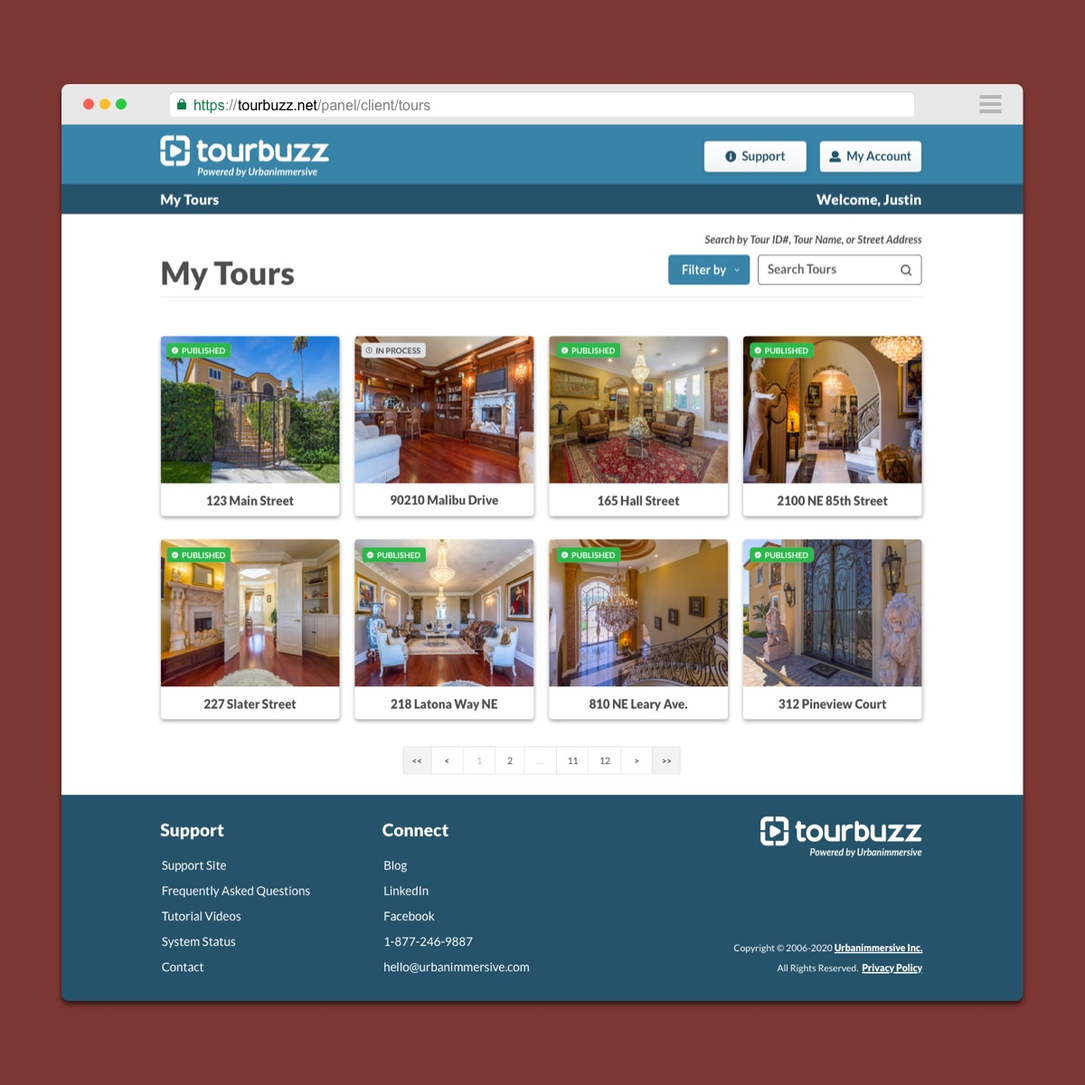
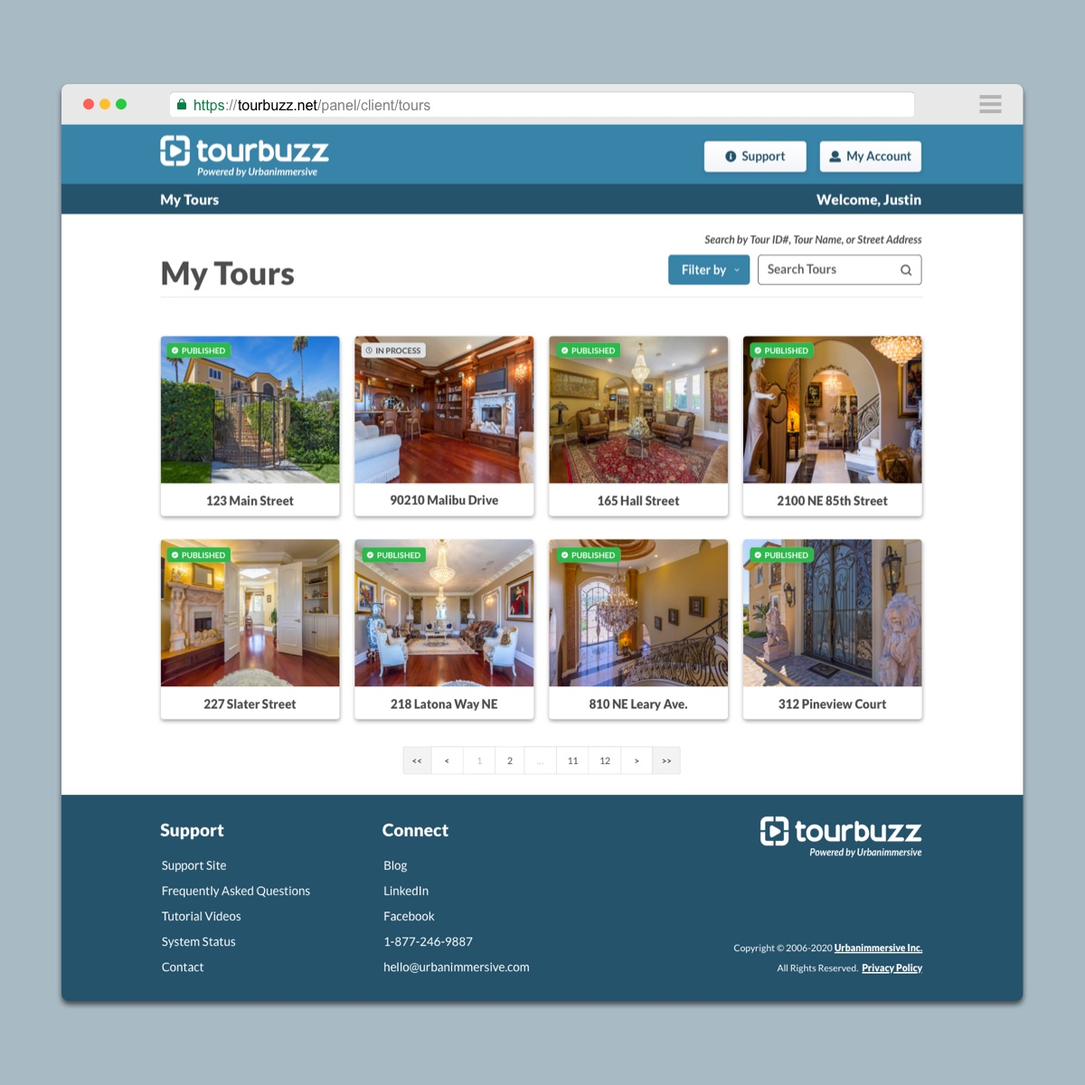
Update client panel img, description, work item.

Changed region(s): [[0.0, 0.0, 1.0, 1.0]]

diff --git a/css/style.css b/css/style.css
@@ -1,3 +1,3 @@
-/*! normalize.css v3.0.1 | MIT License | git.io/normalize */html{font-family:sans-serif;-ms-text-size-adjust:100%;-webkit-text-size-adjust:100%}body{margin:0}article,aside,details,figcaption,figure,footer,header,hgroup,main,nav,section,summary{display:block}audio,canvas,progress,video{display:inline-block;vertical-align:baseline}audio:not([controls]){display:none;height:0}[hidden],template{display:none}a{background:transparent}a:active,a:hover{outline:0}abbr[title]{border-bottom:1px dotted}b,strong{font-weight:bold}dfn{font-style:italic}h1{font-size:2em;margin:0.67em 0}mark{background:#ff0;color:#000}small{font-size:80%}sub,sup{font-size:75%;line-height:0;position:relative;vertical-align:baseline}sup{top:-0.5em}sub{bottom:-0.25em}img{border:0}svg:not(:root){overflow:hidden}figure{margin:1em 40px}hr{box-sizing:content-box;height:0}pre{overflow:auto}code,kbd,pre,samp{font-family:monospace, monospace;font-size:1em}button,input,optgroup,select,textarea{color:inherit;font:inherit;margin:0}button{overflow:visible}button,select{text-transform:none}button,html input[type="button"],input[type="reset"],input[type="submit"]{-webkit-appearance:button;cursor:pointer}button[disabled],html input[disabled]{cursor:default}button::-moz-focus-inner,input::-moz-focus-inner{border:0;padding:0}input{line-height:normal}input[type="checkbox"],input[type="radio"]{box-sizing:border-box;padding:0}input[type="number"]::-webkit-inner-spin-button,input[type="number"]::-webkit-outer-spin-button{height:auto}input[type="search"]{-webkit-appearance:textfield;box-sizing:content-box}input[type="search"]::-webkit-search-cancel-button,input[type="search"]::-webkit-search-decoration{-webkit-appearance:none}fieldset{border:1px solid #c0c0c0;margin:0 2px;padding:0.35em 0.625em 0.75em}legend{border:0;padding:0}textarea{overflow:auto}optgroup{font-weight:bold}table{border-collapse:collapse;border-spacing:0}td,th{padding:0}body,div,h1,h2,h3,h4,h5,h6,p,blockquote,pre,dl,dt,dd,ol,ul,li,fieldset,form,label,legend,th,td,article,aside,figure,footer,header,hgroup,menu,nav,section{margin:0;padding:0;border:0}@font-face{font-family:'cooper-hewitt';src:url("../fonts/cooper-hewitt/cooperhewitt-book-webfont.woff2") format("woff2"),url("../fonts/cooper-hewitt/cooperhewitt-book-webfont.woff") format("woff");font-weight:normal;font-style:normal}@font-face{font-family:'cooper-hewitt';src:url("../fonts/cooper-hewitt/cooperhewitt-bookitalic-webfont.woff2") format("woff2"),url("../fonts/cooper-hewitt/cooperhewitt-bookitalic-webfont.woff") format("woff");font-weight:normal;font-style:italic}@font-face{font-family:'cooper-hewitt';src:url("../fonts/cooper-hewitt/cooperhewitt-bold-webfont.woff2") format("woff2"),url("../fonts/cooper-hewitt/cooperhewitt-bold-webfont.woff") format("woff");font-weight:700;font-style:normal}@font-face{font-family:'cooper-hewitt';src:url("../fonts/cooper-hewitt/cooperhewitt-bolditalic-webfont.woff2") format("woff2"),url("../fonts/cooper-hewitt/cooperhewitt-bolditalic-webfont.woff") format("woff");font-weight:700;font-style:italic}@font-face{font-family:'cooper-hewitt';src:url("../fonts/cooper-hewitt/cooperhewitt-heavy-webfont.woff2") format("woff2"),url("../fonts/cooper-hewitt/cooperhewitt-heavy-webfont.woff") format("woff");font-weight:900;font-style:normal}@font-face{font-family:'cooper-hewitt';src:url("../fonts/cooper-hewitt/cooperhewitt-heavyitalic-webfont.woff2") format("woff2"),url("../fonts/cooper-hewitt/cooperhewitt-heavyitalic-webfont.woff") format("woff");font-weight:900;font-style:italic}@font-face{font-family:'jlaw-icons';src:url("../../fonts/jlaw-icons.eot?-tuycs4");src:url("../../fonts/jlaw-icons.eot?#iefix-tuycs4") format("embedded-opentype"),url("../../fonts/jlaw-icons.woff?-tuycs4") format("woff"),url("../../fonts/jlaw-icons.ttf?-tuycs4") format("truetype"),url("../../fonts/jlaw-icons.svg?-tuycs4#jlaw-icons") format("svg");font-weight:normal;font-style:normal}[class^="icon"],[class*="icon"]{font-family:'jlaw-icons';speak:none;font-size:1em;color:#3d343f;font-style:normal;font-weight:normal;font-variant:normal;text-transform:none;line-height:1;-webkit-font-smoothing:antialiased;-moz-osx-font-smoothing:grayscale}.icon_previous:before{content:"\e601"}.icon_next:before{content:"\e602"}.icon_grid:before{content:"\e605"}.group:after{content:" ";display:table;clear:both}.group{*zoom:1}html{font-size:100%;line-height:1;-webkit-text-size-adjust:100%;-ms-text-size-adjust:100%;text-size-adjust:100%;-moz-osx-font-smoothing:grayscale;font-smoothing:antialiased;text-rendering:optimizeLegibility}@media screen and (min-width: 31.25em){html{font-size:110%}}@media screen and (min-width: 56.25em){html{font-size:115%}}@media screen and (min-width: 68.75em){html{font-size:118%}}p,li{font-family:"cooper-hewitt",sans-serif;color:#3d343f;font-size:1.25em;line-height:1.5;font-style:normal;letter-spacing:.005rem}a:link,a:visited{-webkit-transition:all 0.3s ease;transition:all 0.3s ease}::-moz-selection{background:#54be8e;color:#fff}::selection{background:#54be8e;color:#fff}@media screen and (min-width: 56.25em){.fromTopIn{-webkit-transition:opacity .75s ease,-webkit-transform .75s ease;transition:opacity .75s ease,-webkit-transform .75s ease;transition:transform .75s ease,opacity .75s ease;transition:transform .75s ease,opacity .75s ease,-webkit-transform .75s ease;-webkit-transform:translate(0, 0);transform:translate(0, 0);opacity:1.0}.fromTopOut{-webkit-transition:opacity .75s ease,-webkit-transform .75s ease;transition:opacity .75s ease,-webkit-transform .75s ease;transition:transform .75s ease,opacity .75s ease;transition:transform .75s ease,opacity .75s ease,-webkit-transform .75s ease;-webkit-transform:translate(0, -1em);transform:translate(0, -1em);opacity:0.0}.fromBottomIn{-webkit-transition:opacity .75s ease,-webkit-transform .75s ease;transition:opacity .75s ease,-webkit-transform .75s ease;transition:transform .75s ease,opacity .75s ease;transition:transform .75s ease,opacity .75s ease,-webkit-transform .75s ease;-webkit-transform:translate(0, 0);transform:translate(0, 0);opacity:1.0}.fromBottomOut{-webkit-transition:opacity .75s ease,-webkit-transform .75s ease;transition:opacity .75s ease,-webkit-transform .75s ease;transition:transform .75s ease,opacity .75s ease;transition:transform .75s ease,opacity .75s ease,-webkit-transform .75s ease;-webkit-transform:translate(0, 2em);transform:translate(0, 2em);opacity:0.0}.fromLeftIn{-webkit-transition:opacity .75s ease,-webkit-transform .75s ease;transition:opacity .75s ease,-webkit-transform .75s ease;transition:transform .75s ease,opacity .75s ease;transition:transform .75s ease,opacity .75s ease,-webkit-transform .75s ease;-webkit-transform:translate(0, 0);transform:translate(0, 0);opacity:1.0}.fromLeftOut{-webkit-transition:opacity .75s ease,-webkit-transform .75s ease;transition:opacity .75s ease,-webkit-transform .75s ease;transition:transform .75s ease,opacity .75s ease;transition:transform .75s ease,opacity .75s ease,-webkit-transform .75s ease;-webkit-transform:translate(-1em, 0);transform:translate(-1em, 0);opacity:0.0}.fromRightIn{-webkit-transition:opacity .75s ease,-webkit-transform .75s ease;transition:opacity .75s ease,-webkit-transform .75s ease;transition:transform .75s ease,opacity .75s ease;transition:transform .75s ease,opacity .75s ease,-webkit-transform .75s ease;-webkit-transform:translate(0, 0);transform:translate(0, 0);opacity:1.0}.fromRightOut{-webkit-transition:opacity .75s ease,-webkit-transform .75s ease;transition:opacity .75s ease,-webkit-transform .75s ease;transition:transform .75s ease,opacity .75s ease;transition:transform .75s ease,opacity .75s ease,-webkit-transform .75s ease;-webkit-transform:translate(1em, 0);transform:translate(1em, 0);opacity:0.0}.scaleUpIn{-webkit-transition:opacity .75s ease,-webkit-transform .75s ease;transition:opacity .75s ease,-webkit-transform .75s ease;transition:transform .75s ease,opacity .75s ease;transition:transform .75s ease,opacity .75s ease,-webkit-transform .75s ease;-webkit-transform:scale(1, 1);transform:scale(1, 1);opacity:1.0}.scaleUpOut{-webkit-transition:opacity .75s ease,-webkit-transform .75s ease;transition:opacity .75s ease,-webkit-transform .75s ease;transition:transform .75s ease,opacity .75s ease;transition:transform .75s ease,opacity .75s ease,-webkit-transform .75s ease;-webkit-transform:scale(1.3, 1.3);transform:scale(1.3, 1.3);opacity:0.0}.scaleDownIn{-webkit-transition:opacity .75s ease,-webkit-transform .75s ease;transition:opacity .75s ease,-webkit-transform .75s ease;transition:transform .75s ease,opacity .75s ease;transition:transform .75s ease,opacity .75s ease,-webkit-transform .75s ease;-webkit-transform:scale(1, 1);transform:scale(1, 1);opacity:1.0}.scaleDownOut{-webkit-transition:opacity .75s ease,-webkit-transform .75s ease;transition:opacity .75s ease,-webkit-transform .75s ease;transition:transform .75s ease,opacity .75s ease;transition:transform .75s ease,opacity .75s ease,-webkit-transform .75s ease;-webkit-transform:scale(0.7, 0.7);transform:scale(0.7, 0.7);opacity:0.0}}*,*:before,*:after{box-sizing:border-box}body{border-top:3px solid #54be8e;background-color:#fff}.content-container img{width:100%}@media screen and (min-width: 56.25em){.header-container,.content-container{margin:0 auto}}img{max-width:100%;height:auto;display:block;border:0;-ms-interpolation-mode:bicubic}@media screen and (min-width: 31.25em){.work figure{float:left;width:50%}}@media screen and (min-width: 56.25em){.work figure{float:left;width:33.333333333333333%}}.fig{margin-bottom:0;background-color:#d7d7d7;opacity:1;overflow:hidden}.fig img{-webkit-transition:all 0.4s ease-in-out;transition:all 0.4s ease-in-out}.fig img:hover{-webkit-transition:all .5s ease;transition:all .5s ease;-webkit-transform:scale(1.075);transform:scale(1.075)}.footer-container{background:#3d343f;margin:0;padding:1rem .5rem}.footer-container p{color:#fff;font-family:"cooper-hewitt",sans-serif;font-size:0.875em;line-height:1.5;font-style:normal;text-align:center}@media screen and (min-width: 31.25em){.footer-container p{display:inline-block;text-align:center;margin:0 auto}}@media screen and (min-width: 56.25em){.footer-container p{font-size:80%}}.footer-container .colophon{text-align:center;margin:0 auto}.header-container .masthead{padding:1rem 0 0 0;margin:0 auto;text-align:center}.header-container h1{font-family:"Playfair Display",serif;font-weight:900;font-size:4.7em;line-height:.925;color:#3d343f;text-align:center}.header-container .strapline{font-family:"Playfair Display",serif;font-size:2em;line-height:1.3;font-weight:900;font-style:italic;text-align:center;color:#54be8e;padding:.5rem 0;margin:1rem;border-top:2px solid #d3d3d3;border-bottom:2px solid #d3d3d3;max-width:21.5rem;margin-left:auto;margin-right:auto}.nav{padding-bottom:2rem}.nav ul{text-align:center;margin:0 auto}.nav li{list-style:none;list-style-type:none;display:inline-block;padding:0 .75rem;margin:0;border-right:1px solid #d3d3d3;text-align:left;text-transform:uppercase;font-family:"cooper-hewitt",sans-serif;font-size:1.2em;line-height:1;font-weight:700;color:#3d343f}.nav li:first-child{padding-left:0}.nav a:link,.nav a:visited{color:#3d343f;text-decoration:none;opacity:1}.nav a:hover,.nav a:active,.nav a:focus{opacity:.5;-webkit-transition:opacity 0.3s ease;transition:opacity 0.3s ease}.nav .last-child{border:none;padding-right:0}.nav-a{margin:0;padding:0}@media screen and (min-width: 112.5em){.info{margin:0 auto;max-width:90rem}}.info h3{font-size:2em;color:#3d343f;font-family:"cooper-hewitt",sans-serif;font-weight:700;line-height:1.5;text-transform:capitalize}.info .skills li{list-style-position:inside}.info .contact a:link,.info .contact a:visited,.info .about a:link,.info .about a:visited{color:#54be8e;text-decoration:none;border-bottom:1px solid #54be8e;-webkit-transition:all 0.3s ease;transition:all 0.3s ease}.info .contact a:hover,.info .contact a:active,.info .about a:hover,.info .about a:active{color:#fff;background-color:#54be8e;text-decoration:none;border-bottom:none}.info .about,.info .skills,.info .contact{width:90%;margin:0 auto;padding-top:1.8rem}@media screen and (min-width: 56.25em){.info .about{float:left;width:50%;border-right:1px dotted #d3d3d3;padding:2.7rem 1.8rem 3.6rem 1.8rem;padding-bottom:3.6rem}}@media screen and (min-width: 87.5em){.info .about{padding-right:2.7rem;padding-left:2.7rem}}@media screen and (min-width: 112.5em){.info .about{padding-right:3.15rem;padding-left:3.15rem}}@media screen and (min-width: 56.25em){.info .skills{padding:2.7rem 1.8rem 0 1.8rem;float:right;width:50%}}@media screen and (min-width: 87.5em){.info .skills{padding-right:2.7rem;padding-left:2.7rem}}@media screen and (min-width: 112.5em){.info .skills{padding-right:3.15rem;padding-left:3.15rem}}.info .contact{padding-bottom:3.6rem}@media screen and (min-width: 56.25em){.info .contact{float:right;width:50%;padding:2.65rem 1.8rem 3.6rem 1.8rem}}@media screen and (min-width: 87.5em){.info .contact{padding-right:2.7rem;padding-left:2.7rem}}@media screen and (min-width: 112.5em){.info .contact{padding-right:3.15rem;padding-left:3.15rem}}.work-item-text{max-width:90%;margin:3rem auto}@media screen and (min-width: 31.25em){.work-item-text{max-width:85%}}@media screen and (min-width: 56.25em){.work-item-text{width:65%;max-width:48rem;margin:4rem auto}}.work-item-text h2{font-family:"Playfair Display",serif;font-weight:900;font-size:1.9em;line-height:1.2;color:#3d343f;text-transform:none;text-align:center}.work-item-text h4{font-family:"Playfair Display",serif;font-weight:900;font-style:italic;font-size:1.25em;line-height:1.35;color:#54be8e;text-align:center;padding-top:.25rem;padding-bottom:1rem}.work-item-text p{font-family:"cooper-hewitt",sans-serif;font-size:1.25em;font-weight:normal;line-height:1.5;color:#3d343f;text-align:center;padding-top:1rem;border-top:1px solid #ccc}.work-item-text a:link,.work-item-text a:visited{color:#54be8e;text-decoration:none;border-bottom:1px solid #54be8e;-webkit-transition:all 0.3s ease;transition:all 0.3s ease}.work-item-text a:hover,.work-item-text a:active{color:#fff;background-color:#54be8e;text-decoration:none;border-bottom:none}.work-nav a{color:#3d343f;text-decoration:none;-webkit-transition:all 0.3s ease;transition:all 0.3s ease;display:-webkit-box;display:-webkit-flex;display:-ms-flexbox;display:flex;-webkit-box-pack:center;-webkit-justify-content:center;-ms-flex-pack:center;justify-content:center;-webkit-box-align:center;-webkit-align-items:center;-ms-flex-align:center;align-items:center}.work-item article{padding-bottom:0}.topimg{padding-top:2rem;padding-bottom:2rem;padding-left:8%;padding-right:8%;display:block;text-align:center}.wood{background-color:#d1d1d1;background-image:url(../img/woodbg.jpg);background-size:cover}.dtw-top{background-color:#d1d1d1;background-image:url(../img/wood2.jpg);background-size:cover}.wall{background-color:#d1d1d1;background-image:url(../img/wallbg.jpg)}@media screen and (min-width: 87.5em){.work-item-annualreport{padding:5% 8% 0 8%}}.annualreport-top img,.recruitment-top img,.coc-rebranding-top img{width:85%;max-width:37rem;margin:0 auto}@media screen and (min-width: 56.25em){.annualreport-top img{width:60%}}@media screen and (min-width: 87.5em){.annualreport-top img{width:50%;max-width:37rem}}@media screen and (min-width: 56.25em){.coc-rebranding-top img{width:50%}}@media screen and (min-width: 56.25em){.recruitment-top img{width:65%}}.bleed-top{background-color:#315563}.bleed-top img{margin:0 auto}.tourbuzz-top{background-color:#5e7a9d}.tourbuzz-top img{margin:0 auto}.tourbuzz-work-item-img{border:1px solid black}.client-panel-top{background-color:#7D3732}.client-panel-top img{margin:0 auto}.tere-top{background-color:#0097d5}.tere-top img{margin:0 auto}.cocweb-top{background-color:#c5c3c4}.cocweb-top img{margin:0 auto}.work-item-area{padding:5% 5% 0 5%;margin-bottom:0;background-color:#d7d7d7}.work-item-area figure{padding-bottom:5%}.work-item-area img{margin:0 auto}.surface{background-image:url(../img/surface.jpg)}.shadow img{box-shadow:2px 3px 5px 1px rgba(0,0,0,0.7)}@media screen and (min-width: 56.25em){.half{float:left;width:50%;padding-left:2%;padding-right:2%;text-align:center}}@media screen and (min-width: 56.25em){.full{float:left;width:100%;padding-left:2%;padding-right:2%;text-align:center}}@media screen and (min-width: 56.25em){.quarter{display:inline-block;width:46%}}.fixed{max-width:80rem;margin:0 auto}.row{padding-bottom:5%}.work-nav{font-family:"cooper-hewitt",sans-serif;background-color:#d7d7d7;text-align:center;padding-top:.75rem;padding-bottom:.75rem}.work-nav li{display:inline-block;padding:0 .4rem}.work-nav a:link,.work-nav a:visited{text-decoration:none}.work-nav a:hover,.work-nav a:active{opacity:.6;-webkit-transition:opacity 0.3s ease;transition:opacity 0.3s ease}.gallery{background:#d7d7d7}@media screen and (min-width: 87.5em){.gallery{width:100%;max-width:69rem;margin:0 auto}}.work-nav-back{font-size:.9em}.work-nav-icon{font-size:.8em;margin-right:.25rem}
+/*! normalize.css v3.0.1 | MIT License | git.io/normalize */html{font-family:sans-serif;-ms-text-size-adjust:100%;-webkit-text-size-adjust:100%}body{margin:0}article,aside,details,figcaption,figure,footer,header,hgroup,main,nav,section,summary{display:block}audio,canvas,progress,video{display:inline-block;vertical-align:baseline}audio:not([controls]){display:none;height:0}[hidden],template{display:none}a{background:transparent}a:active,a:hover{outline:0}abbr[title]{border-bottom:1px dotted}b,strong{font-weight:bold}dfn{font-style:italic}h1{font-size:2em;margin:0.67em 0}mark{background:#ff0;color:#000}small{font-size:80%}sub,sup{font-size:75%;line-height:0;position:relative;vertical-align:baseline}sup{top:-0.5em}sub{bottom:-0.25em}img{border:0}svg:not(:root){overflow:hidden}figure{margin:1em 40px}hr{box-sizing:content-box;height:0}pre{overflow:auto}code,kbd,pre,samp{font-family:monospace, monospace;font-size:1em}button,input,optgroup,select,textarea{color:inherit;font:inherit;margin:0}button{overflow:visible}button,select{text-transform:none}button,html input[type="button"],input[type="reset"],input[type="submit"]{-webkit-appearance:button;cursor:pointer}button[disabled],html input[disabled]{cursor:default}button::-moz-focus-inner,input::-moz-focus-inner{border:0;padding:0}input{line-height:normal}input[type="checkbox"],input[type="radio"]{box-sizing:border-box;padding:0}input[type="number"]::-webkit-inner-spin-button,input[type="number"]::-webkit-outer-spin-button{height:auto}input[type="search"]{-webkit-appearance:textfield;box-sizing:content-box}input[type="search"]::-webkit-search-cancel-button,input[type="search"]::-webkit-search-decoration{-webkit-appearance:none}fieldset{border:1px solid #c0c0c0;margin:0 2px;padding:0.35em 0.625em 0.75em}legend{border:0;padding:0}textarea{overflow:auto}optgroup{font-weight:bold}table{border-collapse:collapse;border-spacing:0}td,th{padding:0}body,div,h1,h2,h3,h4,h5,h6,p,blockquote,pre,dl,dt,dd,ol,ul,li,fieldset,form,label,legend,th,td,article,aside,figure,footer,header,hgroup,menu,nav,section{margin:0;padding:0;border:0}@font-face{font-family:'cooper-hewitt';src:url("../fonts/cooper-hewitt/cooperhewitt-book-webfont.woff2") format("woff2"),url("../fonts/cooper-hewitt/cooperhewitt-book-webfont.woff") format("woff");font-weight:normal;font-style:normal}@font-face{font-family:'cooper-hewitt';src:url("../fonts/cooper-hewitt/cooperhewitt-bookitalic-webfont.woff2") format("woff2"),url("../fonts/cooper-hewitt/cooperhewitt-bookitalic-webfont.woff") format("woff");font-weight:normal;font-style:italic}@font-face{font-family:'cooper-hewitt';src:url("../fonts/cooper-hewitt/cooperhewitt-bold-webfont.woff2") format("woff2"),url("../fonts/cooper-hewitt/cooperhewitt-bold-webfont.woff") format("woff");font-weight:700;font-style:normal}@font-face{font-family:'cooper-hewitt';src:url("../fonts/cooper-hewitt/cooperhewitt-bolditalic-webfont.woff2") format("woff2"),url("../fonts/cooper-hewitt/cooperhewitt-bolditalic-webfont.woff") format("woff");font-weight:700;font-style:italic}@font-face{font-family:'cooper-hewitt';src:url("../fonts/cooper-hewitt/cooperhewitt-heavy-webfont.woff2") format("woff2"),url("../fonts/cooper-hewitt/cooperhewitt-heavy-webfont.woff") format("woff");font-weight:900;font-style:normal}@font-face{font-family:'cooper-hewitt';src:url("../fonts/cooper-hewitt/cooperhewitt-heavyitalic-webfont.woff2") format("woff2"),url("../fonts/cooper-hewitt/cooperhewitt-heavyitalic-webfont.woff") format("woff");font-weight:900;font-style:italic}@font-face{font-family:'jlaw-icons';src:url("../../fonts/jlaw-icons.eot?-tuycs4");src:url("../../fonts/jlaw-icons.eot?#iefix-tuycs4") format("embedded-opentype"),url("../../fonts/jlaw-icons.woff?-tuycs4") format("woff"),url("../../fonts/jlaw-icons.ttf?-tuycs4") format("truetype"),url("../../fonts/jlaw-icons.svg?-tuycs4#jlaw-icons") format("svg");font-weight:normal;font-style:normal}[class^="icon"],[class*="icon"]{font-family:'jlaw-icons';speak:none;font-size:1em;color:#3d343f;font-style:normal;font-weight:normal;font-variant:normal;text-transform:none;line-height:1;-webkit-font-smoothing:antialiased;-moz-osx-font-smoothing:grayscale}.icon_previous:before{content:"\e601"}.icon_next:before{content:"\e602"}.icon_grid:before{content:"\e605"}.group:after{content:" ";display:table;clear:both}.group{*zoom:1}html{font-size:100%;line-height:1;-webkit-text-size-adjust:100%;-ms-text-size-adjust:100%;text-size-adjust:100%;-moz-osx-font-smoothing:grayscale;font-smoothing:antialiased;text-rendering:optimizeLegibility}@media screen and (min-width: 31.25em){html{font-size:110%}}@media screen and (min-width: 56.25em){html{font-size:115%}}@media screen and (min-width: 68.75em){html{font-size:118%}}p,li{font-family:"cooper-hewitt",sans-serif;color:#3d343f;font-size:1.25em;line-height:1.5;font-style:normal;letter-spacing:.005rem}a:link,a:visited{-webkit-transition:all 0.3s ease;transition:all 0.3s ease}::-moz-selection{background:#54be8e;color:#fff}::selection{background:#54be8e;color:#fff}@media screen and (min-width: 56.25em){.fromTopIn{-webkit-transition:opacity .75s ease,-webkit-transform .75s ease;transition:opacity .75s ease,-webkit-transform .75s ease;transition:transform .75s ease,opacity .75s ease;transition:transform .75s ease,opacity .75s ease,-webkit-transform .75s ease;-webkit-transform:translate(0, 0);transform:translate(0, 0);opacity:1.0}.fromTopOut{-webkit-transition:opacity .75s ease,-webkit-transform .75s ease;transition:opacity .75s ease,-webkit-transform .75s ease;transition:transform .75s ease,opacity .75s ease;transition:transform .75s ease,opacity .75s ease,-webkit-transform .75s ease;-webkit-transform:translate(0, -1em);transform:translate(0, -1em);opacity:0.0}.fromBottomIn{-webkit-transition:opacity .75s ease,-webkit-transform .75s ease;transition:opacity .75s ease,-webkit-transform .75s ease;transition:transform .75s ease,opacity .75s ease;transition:transform .75s ease,opacity .75s ease,-webkit-transform .75s ease;-webkit-transform:translate(0, 0);transform:translate(0, 0);opacity:1.0}.fromBottomOut{-webkit-transition:opacity .75s ease,-webkit-transform .75s ease;transition:opacity .75s ease,-webkit-transform .75s ease;transition:transform .75s ease,opacity .75s ease;transition:transform .75s ease,opacity .75s ease,-webkit-transform .75s ease;-webkit-transform:translate(0, 2em);transform:translate(0, 2em);opacity:0.0}.fromLeftIn{-webkit-transition:opacity .75s ease,-webkit-transform .75s ease;transition:opacity .75s ease,-webkit-transform .75s ease;transition:transform .75s ease,opacity .75s ease;transition:transform .75s ease,opacity .75s ease,-webkit-transform .75s ease;-webkit-transform:translate(0, 0);transform:translate(0, 0);opacity:1.0}.fromLeftOut{-webkit-transition:opacity .75s ease,-webkit-transform .75s ease;transition:opacity .75s ease,-webkit-transform .75s ease;transition:transform .75s ease,opacity .75s ease;transition:transform .75s ease,opacity .75s ease,-webkit-transform .75s ease;-webkit-transform:translate(-1em, 0);transform:translate(-1em, 0);opacity:0.0}.fromRightIn{-webkit-transition:opacity .75s ease,-webkit-transform .75s ease;transition:opacity .75s ease,-webkit-transform .75s ease;transition:transform .75s ease,opacity .75s ease;transition:transform .75s ease,opacity .75s ease,-webkit-transform .75s ease;-webkit-transform:translate(0, 0);transform:translate(0, 0);opacity:1.0}.fromRightOut{-webkit-transition:opacity .75s ease,-webkit-transform .75s ease;transition:opacity .75s ease,-webkit-transform .75s ease;transition:transform .75s ease,opacity .75s ease;transition:transform .75s ease,opacity .75s ease,-webkit-transform .75s ease;-webkit-transform:translate(1em, 0);transform:translate(1em, 0);opacity:0.0}.scaleUpIn{-webkit-transition:opacity .75s ease,-webkit-transform .75s ease;transition:opacity .75s ease,-webkit-transform .75s ease;transition:transform .75s ease,opacity .75s ease;transition:transform .75s ease,opacity .75s ease,-webkit-transform .75s ease;-webkit-transform:scale(1, 1);transform:scale(1, 1);opacity:1.0}.scaleUpOut{-webkit-transition:opacity .75s ease,-webkit-transform .75s ease;transition:opacity .75s ease,-webkit-transform .75s ease;transition:transform .75s ease,opacity .75s ease;transition:transform .75s ease,opacity .75s ease,-webkit-transform .75s ease;-webkit-transform:scale(1.3, 1.3);transform:scale(1.3, 1.3);opacity:0.0}.scaleDownIn{-webkit-transition:opacity .75s ease,-webkit-transform .75s ease;transition:opacity .75s ease,-webkit-transform .75s ease;transition:transform .75s ease,opacity .75s ease;transition:transform .75s ease,opacity .75s ease,-webkit-transform .75s ease;-webkit-transform:scale(1, 1);transform:scale(1, 1);opacity:1.0}.scaleDownOut{-webkit-transition:opacity .75s ease,-webkit-transform .75s ease;transition:opacity .75s ease,-webkit-transform .75s ease;transition:transform .75s ease,opacity .75s ease;transition:transform .75s ease,opacity .75s ease,-webkit-transform .75s ease;-webkit-transform:scale(0.7, 0.7);transform:scale(0.7, 0.7);opacity:0.0}}*,*:before,*:after{box-sizing:border-box}body{border-top:3px solid #54be8e;background-color:#fff}.content-container img{width:100%}@media screen and (min-width: 56.25em){.header-container,.content-container{margin:0 auto}}img{max-width:100%;height:auto;display:block;border:0;-ms-interpolation-mode:bicubic}@media screen and (min-width: 31.25em){.work figure{float:left;width:50%}}@media screen and (min-width: 56.25em){.work figure{float:left;width:33.333333333333333%}}.fig{margin-bottom:0;background-color:#d7d7d7;opacity:1;overflow:hidden}.fig img{-webkit-transition:all 0.4s ease-in-out;transition:all 0.4s ease-in-out}.fig img:hover{-webkit-transition:all .5s ease;transition:all .5s ease;-webkit-transform:scale(1.075);transform:scale(1.075)}.footer-container{background:#3d343f;margin:0;padding:1rem .5rem}.footer-container p{color:#fff;font-family:"cooper-hewitt",sans-serif;font-size:0.875em;line-height:1.5;font-style:normal;text-align:center}@media screen and (min-width: 31.25em){.footer-container p{display:inline-block;text-align:center;margin:0 auto}}@media screen and (min-width: 56.25em){.footer-container p{font-size:80%}}.footer-container .colophon{text-align:center;margin:0 auto}.header-container .masthead{padding:1rem 0 0 0;margin:0 auto;text-align:center}.header-container h1{font-family:"Playfair Display",serif;font-weight:900;font-size:4.7em;line-height:.925;color:#3d343f;text-align:center}.header-container .strapline{font-family:"Playfair Display",serif;font-size:2em;line-height:1.3;font-weight:900;font-style:italic;text-align:center;color:#54be8e;padding:.5rem 0;margin:1rem;border-top:2px solid #d3d3d3;border-bottom:2px solid #d3d3d3;max-width:21.5rem;margin-left:auto;margin-right:auto}.nav{padding-bottom:2rem}.nav ul{text-align:center;margin:0 auto}.nav li{list-style:none;list-style-type:none;display:inline-block;padding:0 .75rem;margin:0;border-right:1px solid #d3d3d3;text-align:left;text-transform:uppercase;font-family:"cooper-hewitt",sans-serif;font-size:1.2em;line-height:1;font-weight:700;color:#3d343f}.nav li:first-child{padding-left:0}.nav a:link,.nav a:visited{color:#3d343f;text-decoration:none;opacity:1}.nav a:hover,.nav a:active,.nav a:focus{opacity:.5;-webkit-transition:opacity 0.3s ease;transition:opacity 0.3s ease}.nav .last-child{border:none;padding-right:0}.nav-a{margin:0;padding:0}@media screen and (min-width: 112.5em){.info{margin:0 auto;max-width:90rem}}.info h3{font-size:2em;color:#3d343f;font-family:"cooper-hewitt",sans-serif;font-weight:700;line-height:1.5;text-transform:capitalize}.info .skills li{list-style-position:inside}.info .contact a:link,.info .contact a:visited,.info .about a:link,.info .about a:visited{color:#54be8e;text-decoration:none;border-bottom:1px solid #54be8e;-webkit-transition:all 0.3s ease;transition:all 0.3s ease}.info .contact a:hover,.info .contact a:active,.info .about a:hover,.info .about a:active{color:#fff;background-color:#54be8e;text-decoration:none;border-bottom:none}.info .about,.info .skills,.info .contact{width:90%;margin:0 auto;padding-top:1.8rem}@media screen and (min-width: 56.25em){.info .about{float:left;width:50%;border-right:1px dotted #d3d3d3;padding:2.7rem 1.8rem 3.6rem 1.8rem;padding-bottom:3.6rem}}@media screen and (min-width: 87.5em){.info .about{padding-right:2.7rem;padding-left:2.7rem}}@media screen and (min-width: 112.5em){.info .about{padding-right:3.15rem;padding-left:3.15rem}}@media screen and (min-width: 56.25em){.info .skills{padding:2.7rem 1.8rem 0 1.8rem;float:right;width:50%}}@media screen and (min-width: 87.5em){.info .skills{padding-right:2.7rem;padding-left:2.7rem}}@media screen and (min-width: 112.5em){.info .skills{padding-right:3.15rem;padding-left:3.15rem}}.info .contact{padding-bottom:3.6rem}@media screen and (min-width: 56.25em){.info .contact{float:right;width:50%;padding:2.65rem 1.8rem 3.6rem 1.8rem}}@media screen and (min-width: 87.5em){.info .contact{padding-right:2.7rem;padding-left:2.7rem}}@media screen and (min-width: 112.5em){.info .contact{padding-right:3.15rem;padding-left:3.15rem}}.work-item-text{max-width:90%;margin:3rem auto}@media screen and (min-width: 31.25em){.work-item-text{max-width:85%}}@media screen and (min-width: 56.25em){.work-item-text{width:65%;max-width:48rem;margin:4rem auto}}.work-item-text h2{font-family:"Playfair Display",serif;font-weight:900;font-size:1.9em;line-height:1.2;color:#3d343f;text-transform:none;text-align:center}.work-item-text h4{font-family:"Playfair Display",serif;font-weight:900;font-style:italic;font-size:1.25em;line-height:1.35;color:#54be8e;text-align:center;padding-top:.25rem;padding-bottom:1rem}.work-item-text p{font-family:"cooper-hewitt",sans-serif;font-size:1.25em;font-weight:normal;line-height:1.5;color:#3d343f;text-align:center;padding-top:1rem;border-top:1px solid #ccc}.work-item-text a:link,.work-item-text a:visited{color:#54be8e;text-decoration:none;border-bottom:1px solid #54be8e;-webkit-transition:all 0.3s ease;transition:all 0.3s ease}.work-item-text a:hover,.work-item-text a:active{color:#fff;background-color:#54be8e;text-decoration:none;border-bottom:none}.work-nav a{color:#3d343f;text-decoration:none;-webkit-transition:all 0.3s ease;transition:all 0.3s ease;display:-webkit-box;display:-webkit-flex;display:-ms-flexbox;display:flex;-webkit-box-pack:center;-webkit-justify-content:center;-ms-flex-pack:center;justify-content:center;-webkit-box-align:center;-webkit-align-items:center;-ms-flex-align:center;align-items:center}.work-item article{padding-bottom:0}.topimg{padding-top:2rem;padding-bottom:2rem;padding-left:8%;padding-right:8%;display:block;text-align:center}.wood{background-color:#d1d1d1;background-image:url(../img/woodbg.jpg);background-size:cover}.dtw-top{background-color:#d1d1d1;background-image:url(../img/wood2.jpg);background-size:cover}.wall{background-color:#d1d1d1;background-image:url(../img/wallbg.jpg)}@media screen and (min-width: 87.5em){.work-item-annualreport{padding:5% 8% 0 8%}}.annualreport-top img,.recruitment-top img,.coc-rebranding-top img{width:85%;max-width:37rem;margin:0 auto}@media screen and (min-width: 56.25em){.annualreport-top img{width:60%}}@media screen and (min-width: 87.5em){.annualreport-top img{width:50%;max-width:37rem}}@media screen and (min-width: 56.25em){.coc-rebranding-top img{width:50%}}@media screen and (min-width: 56.25em){.recruitment-top img{width:65%}}.bleed-top{background-color:#315563}.bleed-top img{margin:0 auto}.tourbuzz-top{background-color:#5e7a9d}.tourbuzz-top img{margin:0 auto}.tourbuzz-work-item-img{border:1px solid black}.client-panel-top{background-color:#A8BAC4}.client-panel-top img{margin:0 auto}.tere-top{background-color:#0097d5}.tere-top img{margin:0 auto}.cocweb-top{background-color:#c5c3c4}.cocweb-top img{margin:0 auto}.work-item-area{padding:5% 5% 0 5%;margin-bottom:0;background-color:#d7d7d7}.work-item-area figure{padding-bottom:5%}.work-item-area img{margin:0 auto}.surface{background-image:url(../img/surface.jpg)}.shadow img{box-shadow:2px 3px 5px 1px rgba(0,0,0,0.7)}@media screen and (min-width: 56.25em){.half{float:left;width:50%;padding-left:2%;padding-right:2%;text-align:center}}@media screen and (min-width: 56.25em){.full{float:left;width:100%;padding-left:2%;padding-right:2%;text-align:center}}@media screen and (min-width: 56.25em){.quarter{display:inline-block;width:46%}}.fixed{max-width:80rem;margin:0 auto}.row{padding-bottom:5%}.work-nav{font-family:"cooper-hewitt",sans-serif;background-color:#d7d7d7;text-align:center;padding-top:.75rem;padding-bottom:.75rem}.work-nav li{display:inline-block;padding:0 .4rem}.work-nav a:link,.work-nav a:visited{text-decoration:none}.work-nav a:hover,.work-nav a:active{opacity:.6;-webkit-transition:opacity 0.3s ease;transition:opacity 0.3s ease}.gallery{background:#d7d7d7}@media screen and (min-width: 87.5em){.gallery{width:100%;max-width:69rem;margin:0 auto}}.work-nav-back{font-size:.9em}.work-nav-icon{font-size:.8em;margin-right:.25rem}
 
 /*# sourceMappingURL=style.css.map */

diff --git a/work/clientpanel/index.html b/work/clientpanel/index.html
@@ -56,7 +56,7 @@
             <h2>Urbanimmersive Client Panel</h2>
             <h4>UI/UX Design, Front-End Development</h4>
           </header>
-          <p data-scroll="toggle(.fromLeftIn, .fromLeftOut) offset(0, 100px)" class="fromLeftOut">Redesign of customer client panel for Urbanimmersive, an international real estate software company. I provided lead UX/UI design on this initiative, with a focus on creating an intuitive and responsive interface for all modern devices. I worked with the company's customer support team to find and address numerous pain points from the previous version. I also provided front-end development assistance with responsive CSS.</p>
+          <p data-scroll="toggle(.fromLeftIn, .fromLeftOut) offset(0, 100px)" class="fromLeftOut">Redesign of customer client panel for Urbanimmersive, an international real estate software company. I provided lead interface and experience design on this initiative, with a focus on creating an intuitive and responsive interface for all modern devices. I worked with the company's customer support team to locate and resolve numerous pain points from the previous version. I also provided front-end development assistance with general styling and responsive CSS.</p>
         </section>
         <section class="work-item-area">
           <figure>

diff --git a/css/module/_work-item.scss b/css/module/_work-item.scss
@@ -169,7 +169,7 @@ Work Item
 }
 
 .client-panel-top {
-  background-color: #7D3732;
+  background-color: #A8BAC4;
   img {
     margin: 0 auto;
   }
